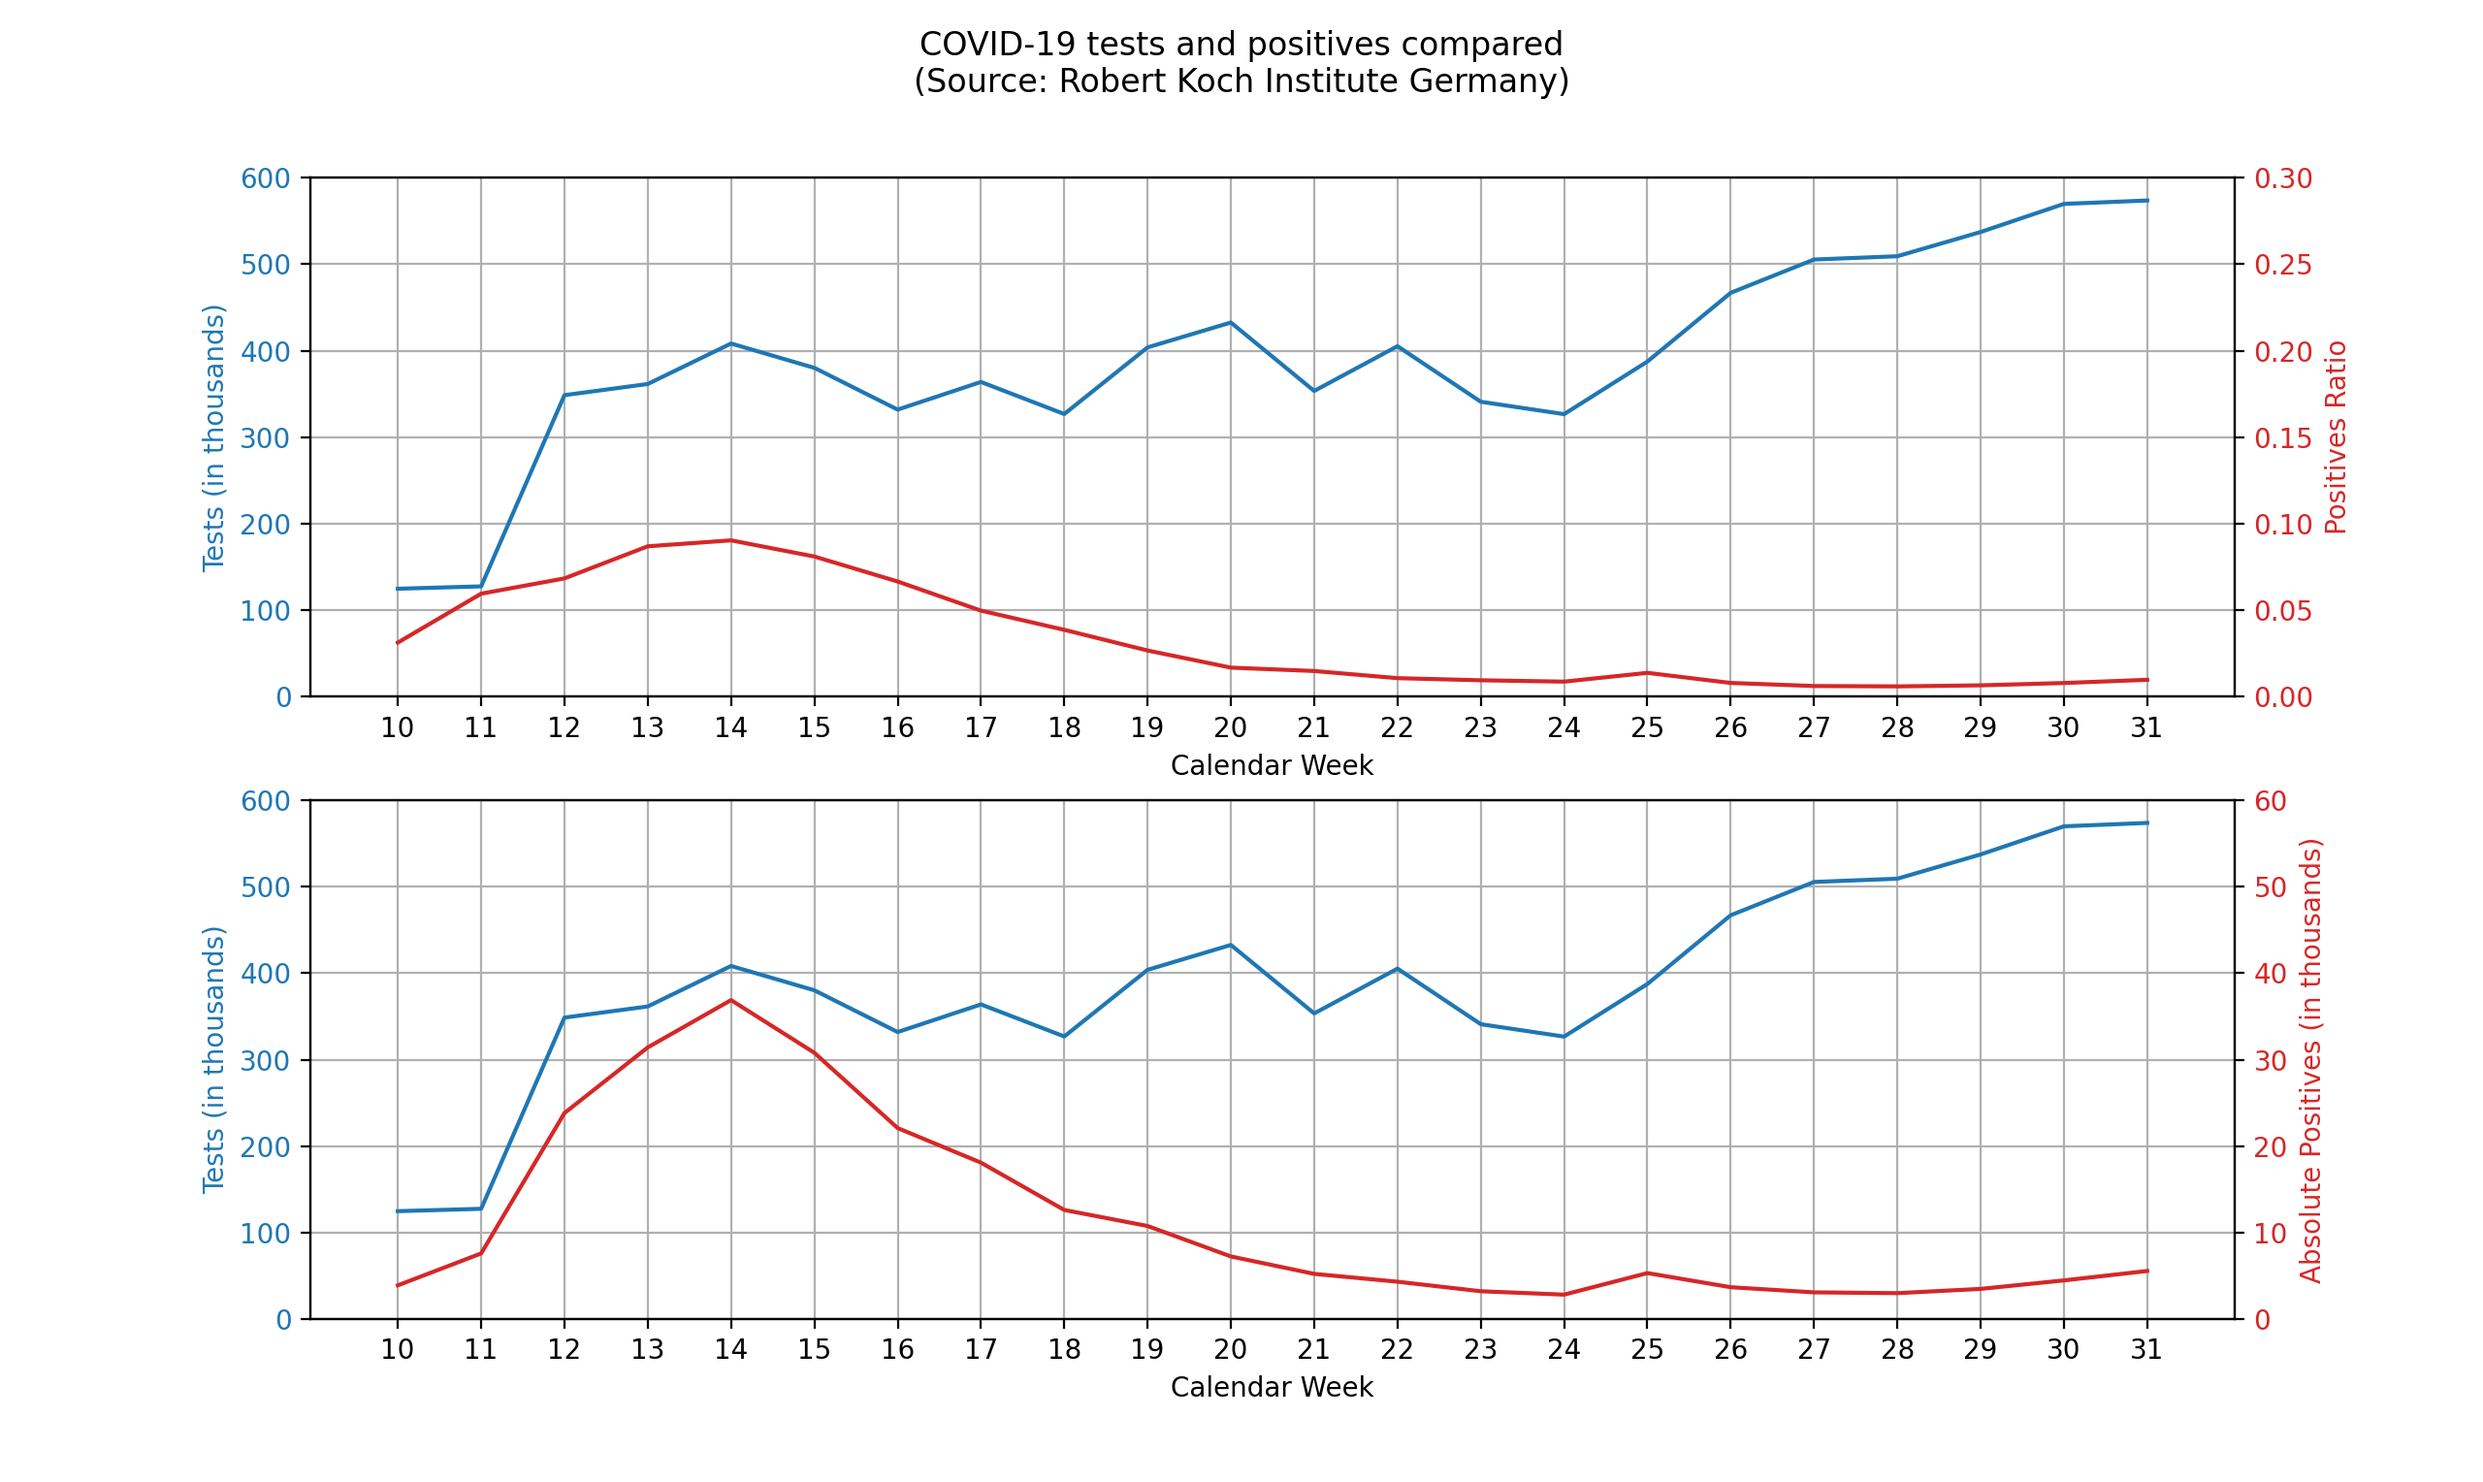
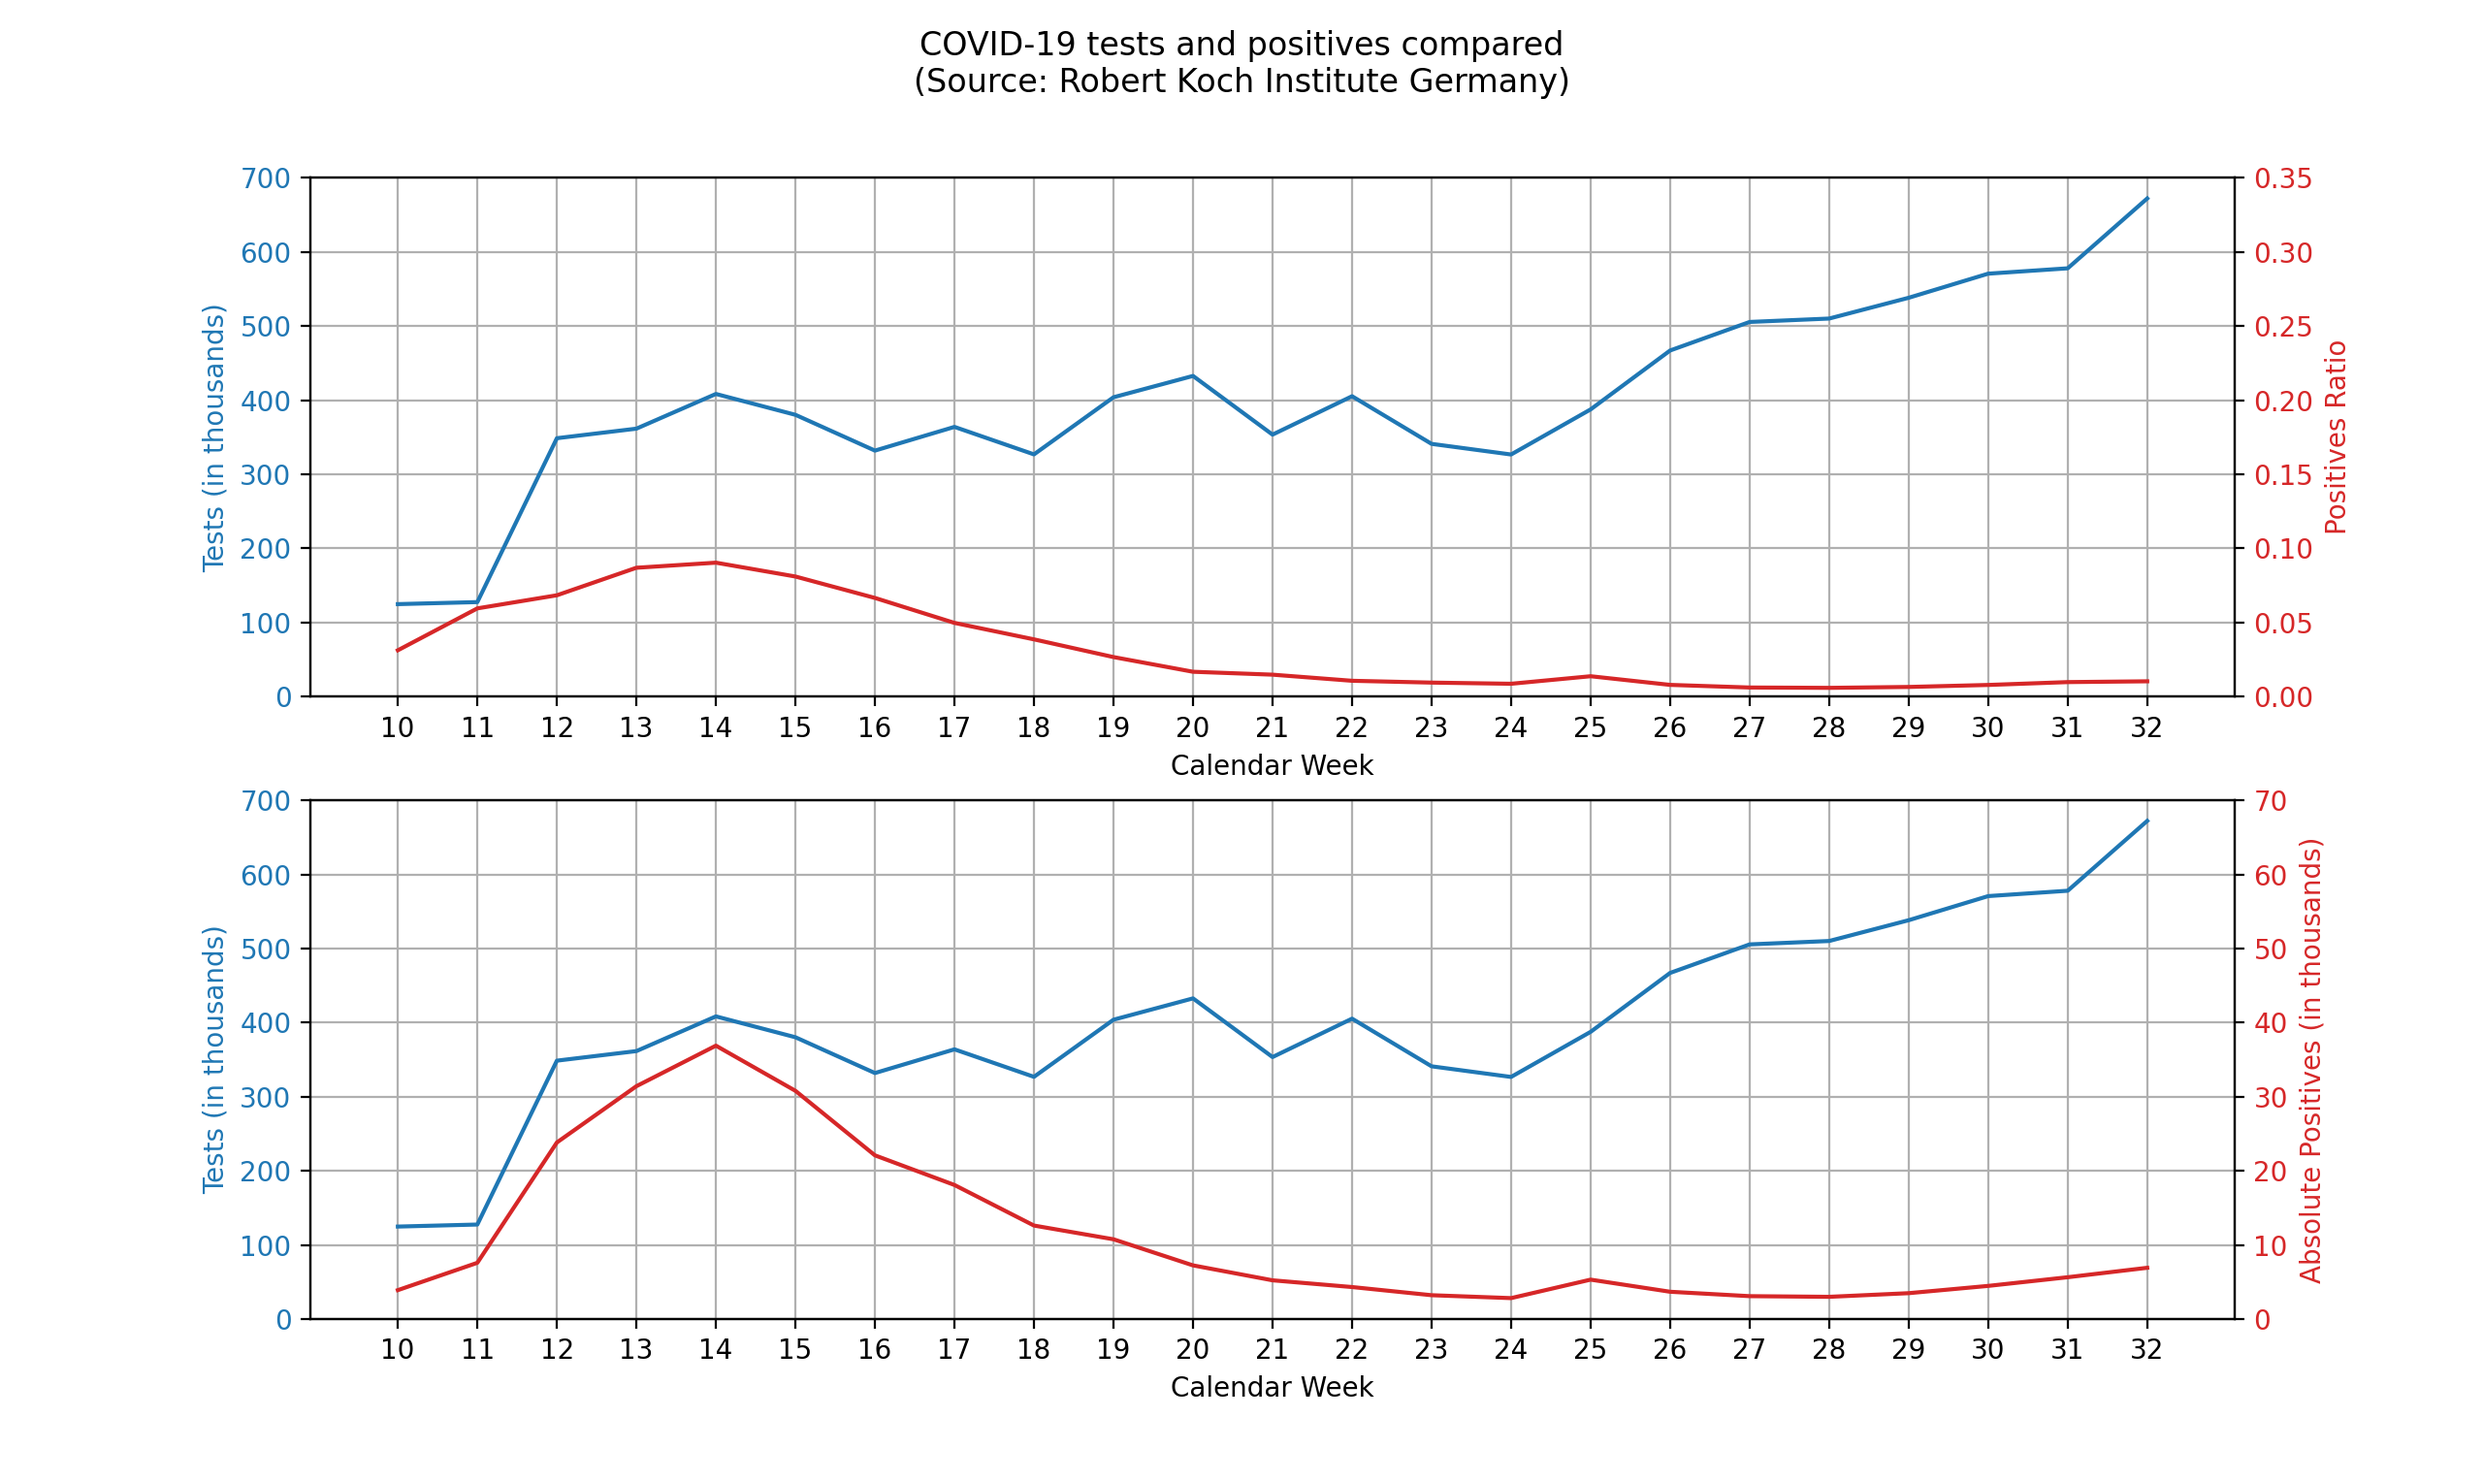
updated stats

diff --git a/corona_config.py b/corona_config.py
@@ -17,7 +17,7 @@ backup_path_rki_report = "{}/backup_{}".format(data_folder, file_rki_report)
 
 link_corona_cases = "https://opendata.ecdc.europa.eu/covid19/casedistribution/csv"
 link_deaths_germany = "https://www.destatis.de/DE/Themen/Gesellschaft-Umwelt/Bevoelkerung/Sterbefaelle-Lebenserwartung/Tabellen/sonderauswertung-sterbefaelle.xlsx?__blob=publicationFile"
-link_rki_report = "https://www.rki.de/DE/Content/InfAZ/N/Neuartiges_Coronavirus/Situationsberichte/2020-08-05-de.pdf?__blob=publicationFile"
+link_rki_report = "https://www.rki.de/DE/Content/InfAZ/N/Neuartiges_Coronavirus/Situationsberichte/2020-08-12-de.pdf?__blob=publicationFile"
 
 data_sources = [
     (link_corona_cases, path_corona_cases, backup_path_corona_cases),

diff --git a/corona_analysis.py b/corona_analysis.py
@@ -96,8 +96,8 @@ def positives_to_tests_germany():
     ax2.set_ylabel('Positives Ratio', color=color)
     ax2.plot(time, positives_ratio, color=color)
     ax2.tick_params(axis='y', labelcolor=color)
-    ax1.set_ylim([0, 600])
-    ax2.set_ylim([0, 0.30])
+    ax1.set_ylim([0, 700])
+    ax2.set_ylim([0, 0.35])
 
     plt.subplot(2, 1, 2)
     ax1 = plt.gca()
@@ -113,8 +113,8 @@ def positives_to_tests_germany():
     ax2.set_ylabel('Absolute Positives (in thousands)', color=color)
     ax2.plot(time, positives, color=color)
     ax2.tick_params(axis='y', labelcolor=color)
-    ax1.set_ylim([0, 600])
-    ax2.set_ylim([0, 60])
+    ax1.set_ylim([0, 700])
+    ax2.set_ylim([0, 70])
 
 
     plt.show()

diff --git a/README.md b/README.md
@@ -62,7 +62,7 @@ Fields in Table `rki_tests`
 The integrated sources so far consist of:
 * the total number of COVID-19 cases reported worlwide, comming from the EU Open Data Portal (https://data.europa.eu/euodp/en/data/dataset/covid-19-coronavirus-data) 
 * the total number of all cause deaths in Germany, reported by the Statistisches Bundesamt (https://www.destatis.de/DE/Themen/Gesellschaft-Umwelt/Bevoelkerung/Sterbefaelle-Lebenserwartung/Tabellen/sonderauswertung-sterbefaelle.html)
-* the total number of performed COVID-19 tests in Germany, reported by the Robert Koch Institute (https://www.rki.de/DE/Content/InfAZ/N/Neuartiges_Coronavirus/Situationsberichte/2020-08-05-de.pdf)
+* the total number of performed COVID-19 tests in Germany, reported by the Robert Koch Institute (https://www.rki.de/DE/Content/InfAZ/N/Neuartiges_Coronavirus/Situationsberichte/2020-08-12-de.pdf)
 
 
 ## Results
